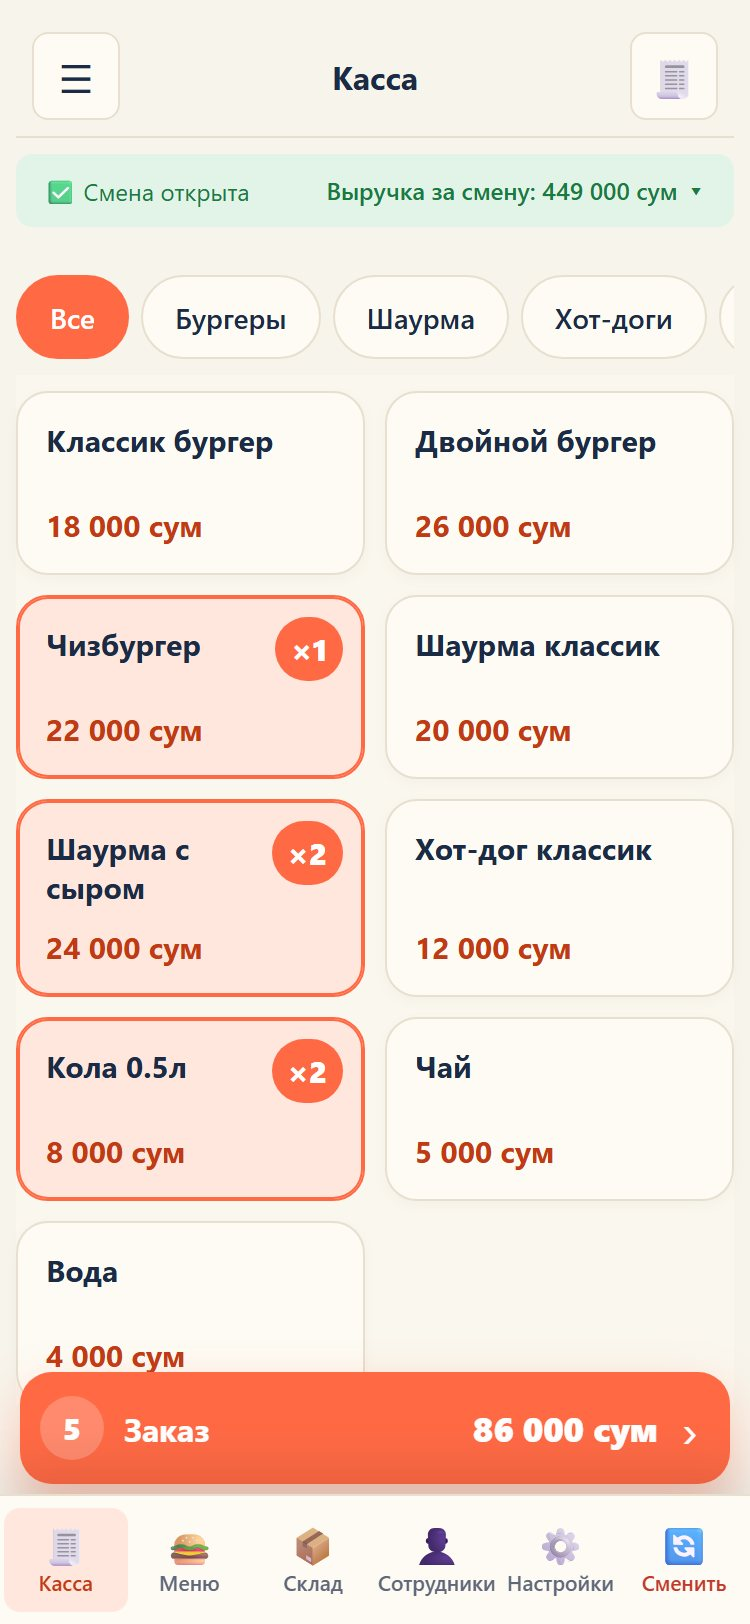
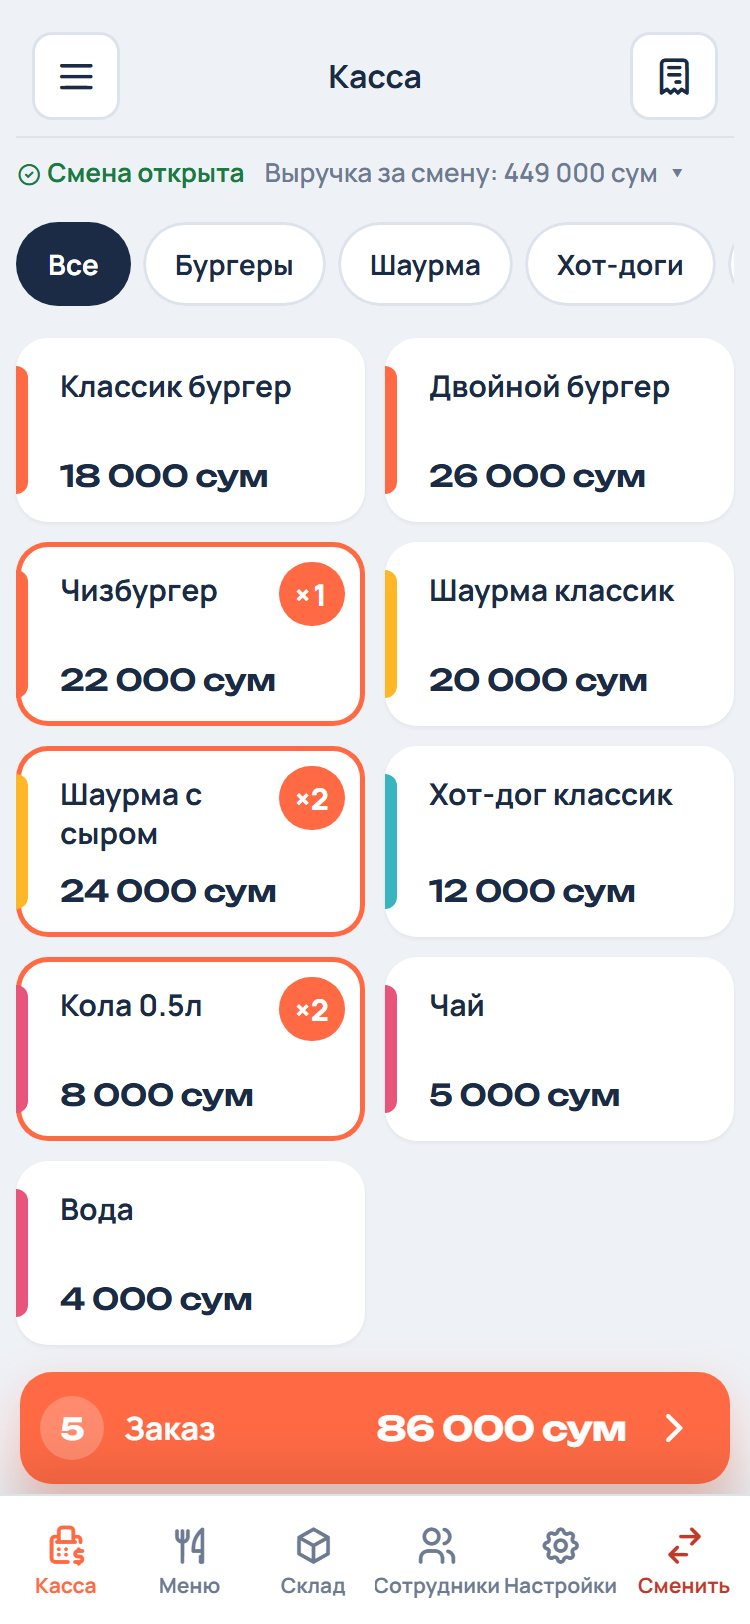
Лендинг: скриншоты кассы и склада в новом дизайне «Чек-лента»

diff --git a/PROJECT_CONTEXT_V2.md b/PROJECT_CONTEXT_V2.md
@@ -301,7 +301,7 @@ checkout() → buildReceiptModel(order, venue, cashier) → PrintAdapter.print(m
 > плитки блюд с цветной полоской категории (`CAT_COLORS`, `catColorOf()`), заказ — белый «чек» с зубчиками снизу,
 > цифры шрифтом Unbounded. Эмодзи заменены иконками Tabler (пакет `@tabler/icons-webfont`, отдаётся сервером по
 > `/vendor/tabler`, без внешних CDN). Стили — последний слой «ДИЗАЙН B» в `<style>` `app.html`. Скриншоты лендинга
-> ещё в старом дизайне.
+> (`public/img/screen-*.jpg`) пересняты в новом дизайне.
 
 1. **P0.1 — XSS** (закрыть критическую дыру).
 2. **P0.2 — PIN** (этап A немедленно, этап B — хеширование).
